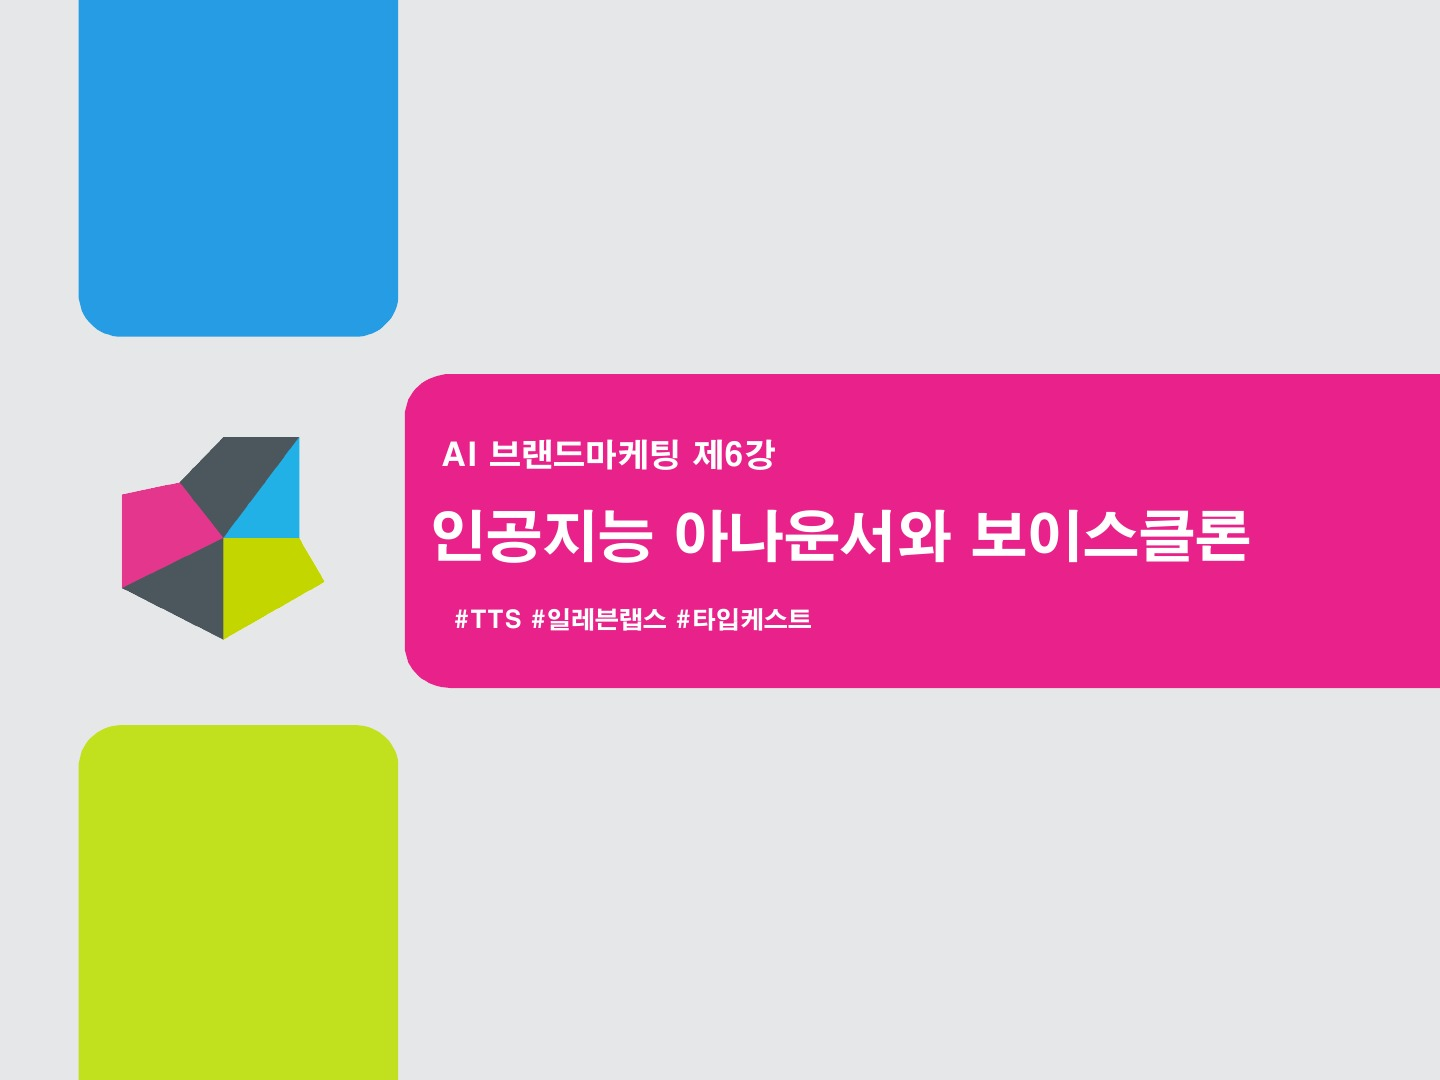
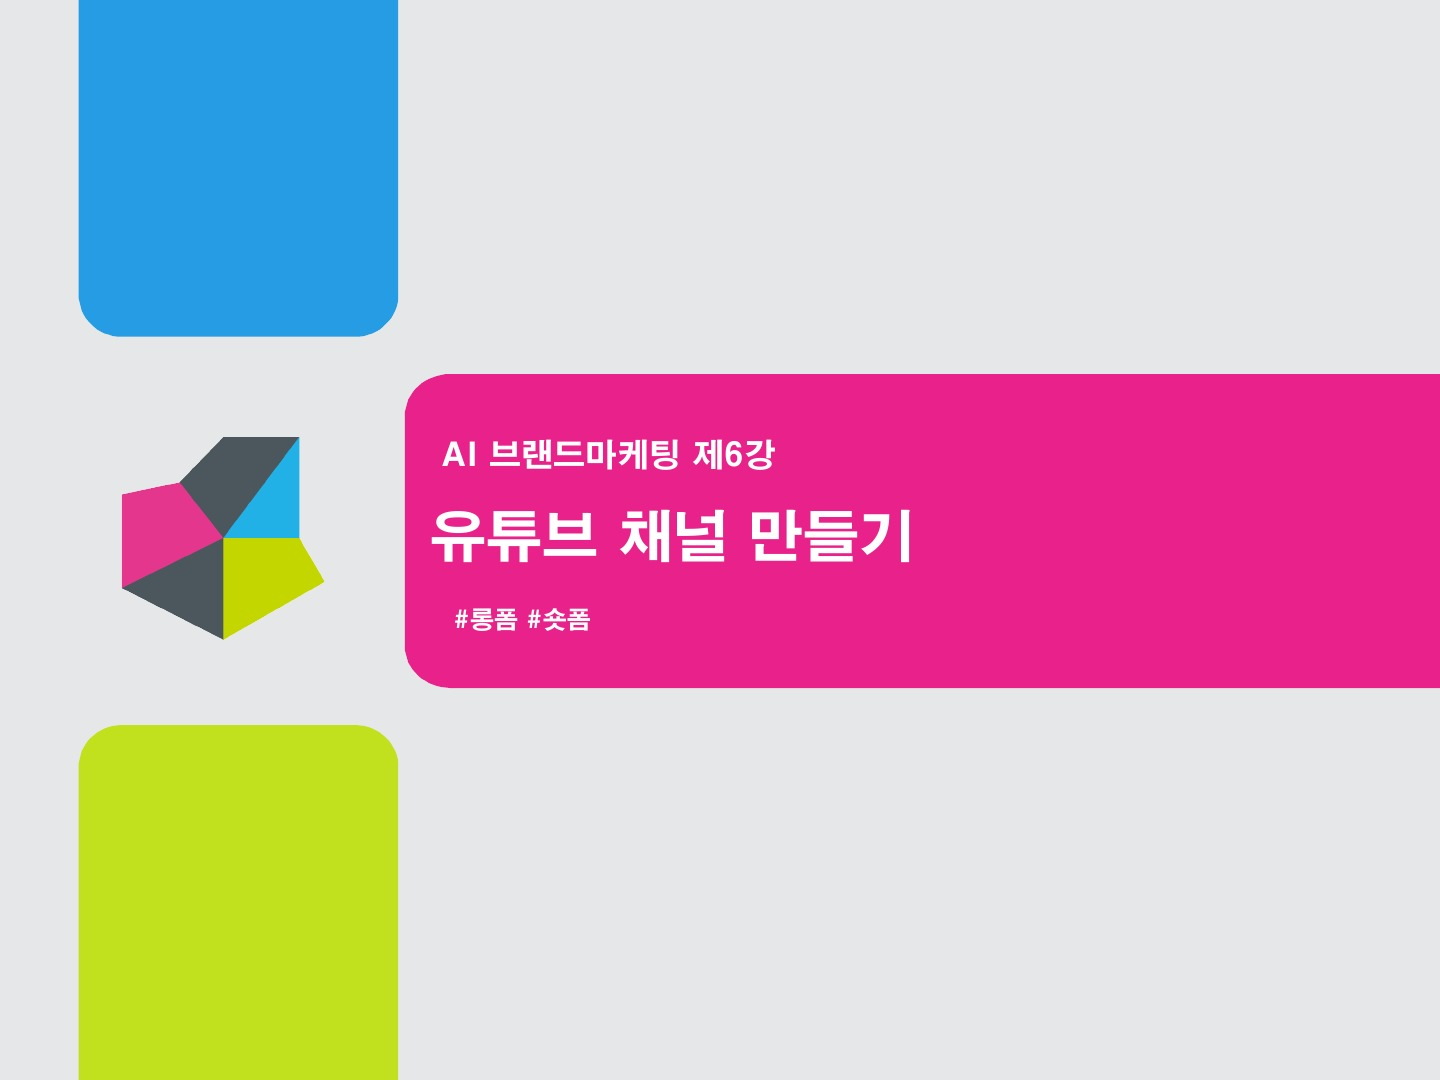
Update AI brand marketing to eleven lectures

Changed region(s): [[0.2812, 0.4583, 0.875, 0.5194], [0.3125, 0.55, 0.5625, 0.5806]]

diff --git a/courses/01-ai-brand-marketing/index.html b/courses/01-ai-brand-marketing/index.html
@@ -3,7 +3,7 @@
 <head>
   <meta charset="utf-8">
   <meta name="viewport" content="width=device-width, initial-scale=1">
-  <meta name="description" content="AI 브랜드마케팅 1강부터 10강까지의 강의 콘텐츠 목록">
+  <meta name="description" content="AI 브랜드마케팅 1강부터 11강까지의 강의 콘텐츠 목록">
   <title>AI 브랜드마케팅 | 강의 콘텐츠</title>
   <link rel="stylesheet" href="styles.css">
 </head>
@@ -15,24 +15,25 @@
   </header>
   <main>
     <section class="intro" aria-labelledby="page-title">
-      <p class="eyebrow">AI BRAND MARKETING · 10 LECTURES</p>
+      <p class="eyebrow">AI BRAND MARKETING · 11 LECTURES</p>
       <h1 id="page-title">AI 브랜드마케팅</h1>
       <p class="lede">AI를 이해하는 첫걸음부터 바이브코딩, 콘텐츠 제작과<br class="desktop-only"> 디지털 윤리, SNS 졸업작품전까지 한눈에 살펴보세요.</p>
       <a class="scroll-cue" href="#lectures">강의 둘러보기 <span aria-hidden="true">↓</span></a>
     </section>
     <section class="lecture-section" id="lectures" aria-labelledby="lecture-title">
-      <div class="section-heading"><p class="section-label">CURRICULUM</p><h2 id="lecture-title">전체 강의</h2><p>10개의 강의 콘텐츠</p></div>
+      <div class="section-heading"><p class="section-label">CURRICULUM</p><h2 id="lecture-title">전체 강의</h2><p>11개의 강의 콘텐츠</p></div>
       <ol class="lecture-grid">
         <li><article><a class="thumbnail-link" href="https://youtu.be/Pt83OHV3wAo" target="_blank" rel="noopener noreferrer" aria-label="제1강 유튜브 강의 새 창에서 보기"><img src="images/lecture-01.jpg" alt="제1강 강의 썸네일" loading="eager"></a><div class="lecture-copy"><span class="number">제1강</span><h3><a href="https://youtu.be/Pt83OHV3wAo" target="_blank" rel="noopener noreferrer">AI 프로그램과 논리적 프로그램의 차이</a></h3></div></article></li>
         <li><article><img src="images/lecture-02.jpg" alt="제2강 강의 썸네일" loading="eager"><div class="lecture-copy"><span class="number">제2강</span><h3>바이브코딩 입문</h3></div></article></li>
         <li><article><img src="images/lecture-03.jpg" alt="제3강 강의 썸네일" loading="lazy"><div class="lecture-copy"><span class="number">제3강</span><h3>에이전틱 AI 바이브코딩</h3></div></article></li>
         <li><article><img src="images/lecture-04.jpg" alt="제4강 강의 썸네일" loading="lazy"><div class="lecture-copy"><span class="number">제4강</span><h3>개인 홈페이지 만들기</h3></div></article></li>
-        <li><article><img src="images/lecture-05.jpg" alt="제5강 강의 썸네일" loading="lazy"><div class="lecture-copy"><span class="number">제5강</span><h3>유튜브 채널 만들기</h3></div></article></li>
-        <li><article><img src="images/lecture-06.jpg" alt="제6강 강의 썸네일" loading="lazy"><div class="lecture-copy"><span class="number">제6강</span><h3>인공지능 아나운서와 보이스클론</h3></div></article></li>
-        <li><article><img src="images/lecture-07.jpg" alt="제7강 강의 썸네일" loading="lazy"><div class="lecture-copy"><span class="number">제7강</span><h3>디지털트윈과 저작권</h3></div></article></li>
-        <li><article><img src="images/lecture-08.jpg" alt="제8강 강의 썸네일" loading="lazy"><div class="lecture-copy"><span class="number">제8강</span><h3>프롬프트와 RAG</h3></div></article></li>
+        <li><article><img src="images/lecture-05.jpg" alt="제5강 강의 썸네일" loading="lazy"><div class="lecture-copy"><span class="number">제5강</span><h3>AI로 홈페이지 수정하기</h3></div></article></li>
+        <li><article><img src="images/lecture-06.jpg" alt="제6강 강의 썸네일" loading="lazy"><div class="lecture-copy"><span class="number">제6강</span><h3>유튜브 채널 만들기</h3></div></article></li>
+        <li><article><img src="images/lecture-07.jpg" alt="제7강 강의 썸네일" loading="lazy"><div class="lecture-copy"><span class="number">제7강</span><h3>인공지능 아나운서와 보이스클론</h3></div></article></li>
+        <li><article><img src="images/lecture-08.jpg" alt="제8강 강의 썸네일" loading="lazy"><div class="lecture-copy"><span class="number">제8강</span><h3>디지털트윈과 저작권</h3></div></article></li>
         <li><article><img src="images/lecture-09.jpg" alt="제9강 강의 썸네일" loading="lazy"><div class="lecture-copy"><span class="number">제9강</span><h3>프롬프트와 RAG</h3></div></article></li>
-        <li><article><img src="images/lecture-10.jpg" alt="제10강 강의 썸네일" loading="lazy"><div class="lecture-copy"><span class="number">제10강</span><h3>SNS 졸업작품전</h3></div></article></li>
+        <li><article><img src="images/lecture-10.jpg" alt="제10강 강의 썸네일" loading="lazy"><div class="lecture-copy"><span class="number">제10강</span><h3>프롬프트와 RAG</h3></div></article></li>
+        <li><article><img src="images/lecture-11.jpg" alt="제11강 강의 썸네일" loading="lazy"><div class="lecture-copy"><span class="number">제11강</span><h3>SNS 졸업작품전</h3></div></article></li>
       </ol>
     </section>
   </main>

diff --git a/index.html b/index.html
@@ -52,7 +52,7 @@
         <li><span>02</span><strong>마케팅</strong></li>
         <li><span>03</span><strong>광고학개론</strong></li>
         <li><span>04</span><strong>소비자행동론</strong></li>
-        <li class="course-featured"><a href="courses/01-ai-brand-marketing/" target="_blank" rel="noopener noreferrer" aria-label="AI 브랜드마케팅 강의 콘텐츠 새 창에서 보기"><span>05</span><strong>AI 브랜드마케팅</strong><em>10개 강의 보기 ↗</em></a></li>
+        <li class="course-featured"><a href="courses/01-ai-brand-marketing/" target="_blank" rel="noopener noreferrer" aria-label="AI 브랜드마케팅 강의 콘텐츠 새 창에서 보기"><span>05</span><strong>AI 브랜드마케팅</strong><em>11개 강의 보기 ↗</em></a></li>
       </ul>
     </section>
 
